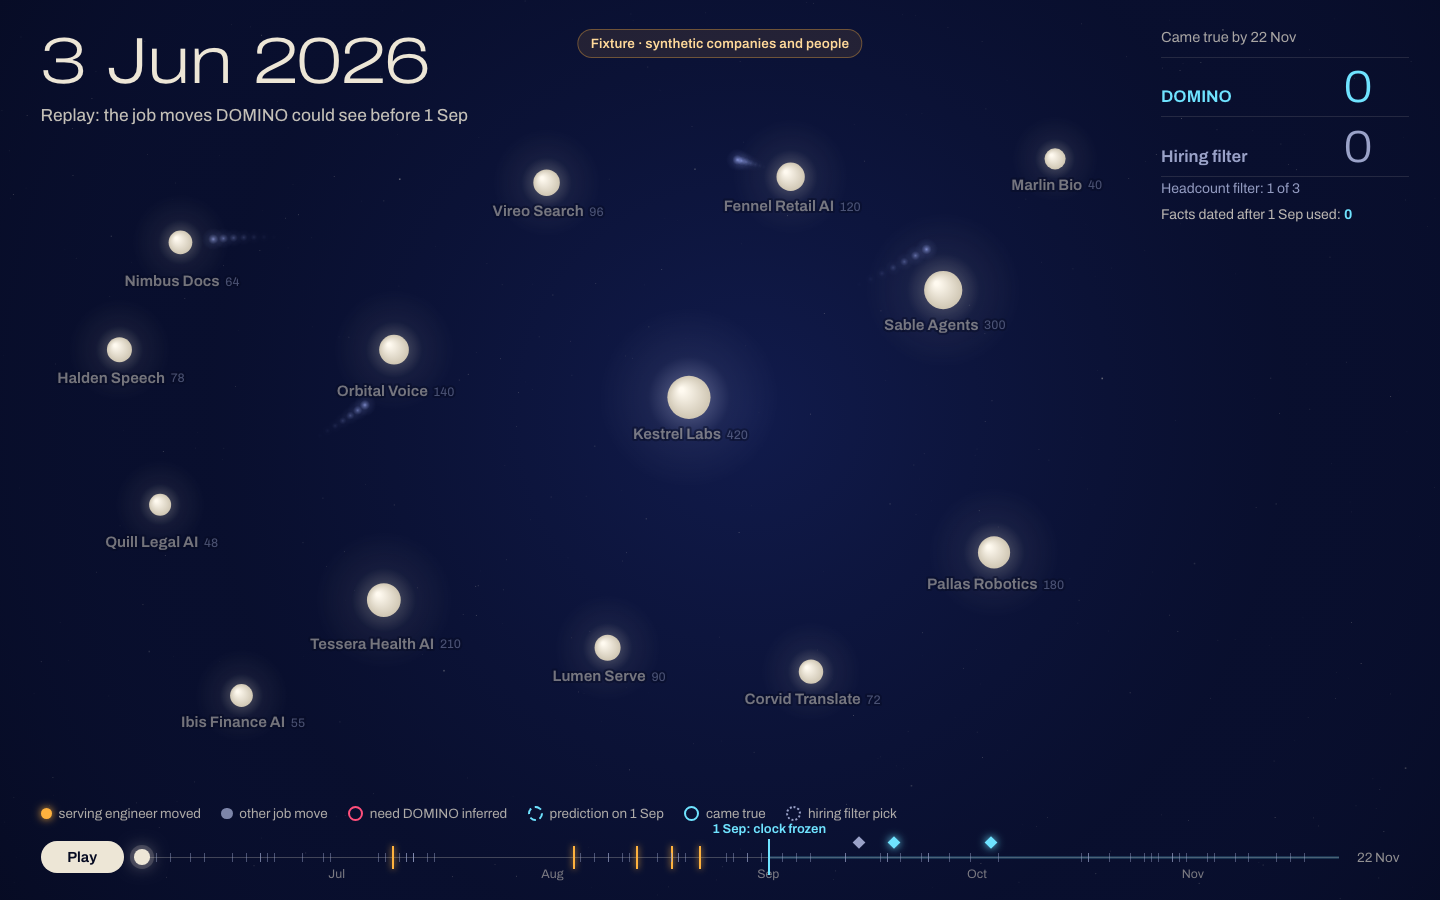
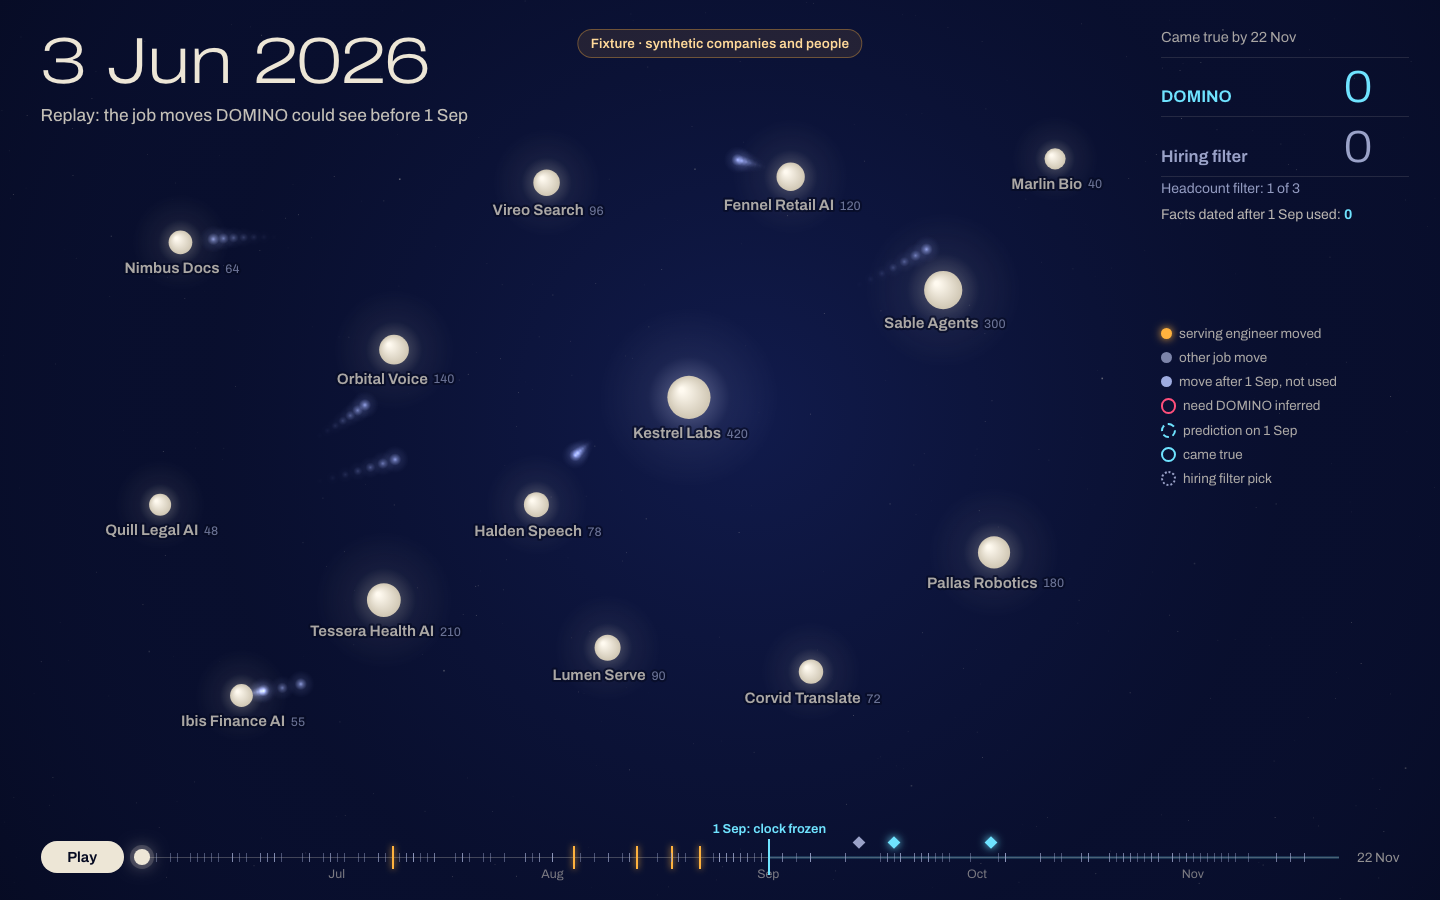
Talent flow: compact slot layout, readable in-flight sentences, outward-bowing flows

diff --git a/web/src/centrepiece/flow/render.ts b/web/src/centrepiece/flow/render.ts
@@ -17,7 +17,7 @@ export const FONT = "'Archivo Flow', 'Archivo', system-ui, sans-serif";
 const FLIGHT_DAYS = 13;
 
 export interface View {
-  w: number; h: number; dpr: number; k: number;
+  w: number; h: number; dpr: number; k: number; compact: boolean;
   rect: { x: number; y: number; w: number; h: number };
   filterView: boolean; hoverId: string | null; selId: string | null; reduced: boolean;
   slots: { x: number; y: number }[];         // landing points (left-middle) of letter sentences, CSS px in the canvas frame
@@ -88,7 +88,7 @@ function background(w: number, h: number, dpr: number): HTMLCanvasElement {
 }
 
 // quadratic curve between two points, always bowing the same way so flows swirl rather than cross
-function ctrl(ax: number, ay: number, bx: number, by: number, bend = 0.22): [number, number] {
+function ctrl(ax: number, ay: number, bx: number, by: number, bend = -0.22): [number, number] {
   const dx = bx - ax, dy = by - ay;
   return [(ax + bx) / 2 - dy * bend, (ay + by) / 2 + dx * bend];
 }
@@ -133,14 +133,14 @@ function text(g: CanvasRenderingContext2D, str: string, x: number, y: number, fo
   g.fillText(str, x, y);
 }
 
-function pill(g: CanvasRenderingContext2D, str: string, x: number, y: number, k: number, color: string, alpha: number, sub?: string, leftAnchor = false) {
+function pill(g: CanvasRenderingContext2D, str: string, x: number, y: number, k: number, color: string, alpha: number, sub?: string, anchor: 'center' | 'left' | 'right' = 'center') {
   g.font = `600 ${12.5 * k}px ${FONT}`;
   const w1 = g.measureText(str).width;
   let w2 = 0;
   if (sub) { g.font = `500 ${12.5 * k}px ${FONT}`; w2 = g.measureText(sub).width + 8 * k; }
   const pw = w1 + w2 + 18 * k, ph = 24 * k;
   if (alpha <= 0.01) return;
-  if (leftAnchor) x += pw / 2;
+  if (anchor === 'left') x += pw / 2; else if (anchor === 'right') x -= pw / 2;
   g.globalAlpha = alpha;
   g.fillStyle = 'rgba(8,14,40,0.92)';
   g.strokeStyle = rgba(color, 0.7);
@@ -205,7 +205,7 @@ export function draw(g: CanvasRenderingContext2D, m: FlowModel, s: number, v: Vi
     const a = clamp((s - l.sAppear) / 0.8);
     if (a <= 0) continue;
     const A = N(l.from), B = N(l.to);
-    const [cx, cy] = ctrl(A.x, A.y, B.x, B.y, -0.12);
+    const [cx, cy] = ctrl(A.x, A.y, B.x, B.y, 0.12);
     const col = l.mechanism === 'DISPLACEMENT' ? C.wound : C.slate;
     g.strokeStyle = rgba(col, 0.5 * a * Math.min(dimOf(l.from), dimOf(l.to)) + 0.05);
     g.lineWidth = 1.4 * k;
@@ -239,8 +239,10 @@ export function draw(g: CanvasRenderingContext2D, m: FlowModel, s: number, v: Vi
         const [mx, my] = pts[24];
         g.globalCompositeOperation = 'source-over';
         g.globalAlpha = 0.9 * dim;
-        text(g, `${arrived} serving moves`, mx + 10 * k, my - 8 * k, `650 ${12 * k}px ${FONT}`, rgba(C.ember, 0.95), 'left');
-        text(g, `the rule needs ${RIVER_MIN} to call a drain`, mx + 10 * k, my + 8 * k, `450 ${11.5 * k}px ${FONT}`, rgba(C.slate, 0.95), 'left');
+        const side = mx < cx ? -1 : 1;
+        const al: CanvasTextAlign = side < 0 ? 'right' : 'left';
+        text(g, `${arrived} serving moves`, mx + side * 12 * k, my - 8 * k, `650 ${12 * k}px ${FONT}`, rgba(C.ember, 0.95), al);
+        text(g, `the rule needs ${RIVER_MIN} to call a drain`, mx + side * 12 * k, my + 8 * k, `450 ${11.5 * k}px ${FONT}`, rgba(C.slate, 0.95), al);
         g.globalAlpha = 1;
         g.globalCompositeOperation = 'lighter';
       }
@@ -337,7 +339,7 @@ export function draw(g: CanvasRenderingContext2D, m: FlowModel, s: number, v: Vi
     g.globalAlpha = 1;
 
     g.globalCompositeOperation = 'source-over';
-    g.globalAlpha = 0.35 + 0.65 * dim;
+    g.globalAlpha = (0.35 + 0.65 * dim) * (focus && c.id !== focus.id ? 1 - ez * 0.95 : 1);
     const cg = g.createRadialGradient(n.x - R * 0.35, n.y - R * 0.35, R * 0.1, n.x, n.y, R);
     cg.addColorStop(0, '#fffaf0');
     cg.addColorStop(1, cracked ? '#e9b9c2' : '#cfc6b3');
@@ -390,9 +392,9 @@ export function draw(g: CanvasRenderingContext2D, m: FlowModel, s: number, v: Vi
     g.font = `650 ${fs}px ${FONT}`;
     const nw = g.measureText(c.name).width;
     g.font = `450 ${fs * 0.82}px ${FONT}`;
-    const hw = g.measureText(` ${c.headcount}`).width;
+    const hw = v.compact ? 0 : g.measureText(` ${c.headcount}`).width;
     text(g, c.name, n.x - hw / 2, ly, `650 ${fs}px ${FONT}`, rgba(C.bone, 0.95));
-    text(g, `${c.headcount}`, n.x + nw / 2 - hw / 2 + 5 * k, ly + 0.5, `450 ${fs * 0.82}px ${FONT}`, rgba(C.slate, 0.9), 'left');
+    if (!v.compact) text(g, `${c.headcount}`, n.x + nw / 2 - hw / 2 + 5 * k, ly + 0.5, `450 ${fs * 0.82}px ${FONT}`, rgba(C.slate, 0.9), 'left');
     let line = ly + fs * 1.3;
     if (need) {
       const bt = clamp((s - need.sBloom) / 0.5);
@@ -400,9 +402,11 @@ export function draw(g: CanvasRenderingContext2D, m: FlowModel, s: number, v: Vi
         g.globalAlpha = la * bt;
         text(g, need.weak ? `${need.need}?` : need.need, n.x, line, `700 ${fs * 0.9}px ${FONT}`, need.weak ? rgba(C.wound, 0.6) : C.wound);
         line += fs * 1.2;
+        if (!v.compact || (focus && c.id === focus.id && ez > 0.5)) {
         const ev = need.weak ? `${need.dated} dated row, needs 2 to act` : `${need.dated} dated rows${need.confidence !== null ? `, ${Math.round(need.confidence * 100)}% confidence` : ''}`;
         text(g, ev, n.x, line, `450 ${fs * 0.8}px ${FONT}`, rgba(C.slate, 0.95));
         line += fs * 1.15;
+        }
       }
     }
     if (v.filterView && m.filterIds.has(c.id)) {
@@ -513,10 +517,11 @@ export function draw(g: CanvasRenderingContext2D, m: FlowModel, s: number, v: Vi
       const a = clamp((s - p.sLand) / 0.35) * (focus && p.companyId !== focus.id ? dim : 0.4 + 0.6 * dim);
       const label = p.outcomeDay !== null ? fmtDay(p.outcomeDay) : '';
       const what = p.outcome.replace(/\s\d{1,2} [A-Z][a-z]{2}$/, '');
-      pill(g, label, n.x + R * 0.55, n.y - R * 0.85 - 6 * k, k, p.by === 'domino' ? C.tide : C.slate, a, what, true);
+      const isFocus = focus && p.companyId === focus.id && ez > 0.5;
+      pill(g, label, n.x + (isFocus ? -R * 0.55 : R * 0.55), n.y - R * 0.85 - 6 * k, k, p.by === 'domino' ? C.tide : C.slate, a, what, isFocus ? 'right' : 'left');
     } else if (p.sLand === null && s >= m.sEnd && m.mode === 'replay' && !pillDone.has(p.companyId)) {
       pillDone.add(p.companyId);
-      pill(g, 'no dated sign yet', n.x + R * 0.55, n.y - R * 0.85 - 6 * k, k, C.slate, clamp((s - m.sEnd) / 0.5) * 0.85 * dim, undefined, true);
+      pill(g, 'no dated sign yet', n.x + R * 0.55, n.y - R * 0.85 - 6 * k, k, C.slate, clamp((s - m.sEnd) / 0.5) * 0.85 * dim * (1 - ez), undefined, 'left');
     }
   }
 

diff --git a/web/src/centrepiece/flow/TalentFlow.tsx b/web/src/centrepiece/flow/TalentFlow.tsx
@@ -64,13 +64,14 @@ export function TalentFlow(props: CentrepieceProps & TalentFlowExtra): JSX.Eleme
   const [, force] = useState(0);
 
   const k = clamp(Math.min(width / 1280, height / 800), 0.78, 1.4);
-  const scoreW = model.score ? 236 * k : 0;
+  const compact = width < 1000 || height < 640;
+  const scoreW = model.score ? (compact ? 200 : 236) * k : 0;
   const letterW = Math.min(560 * k, width * 0.5);
   const letterLeft = width - letterW - 28 * k;
   const rect = useMemo(() => ({
-    x: 70 * k, y: 120 * k,
-    w: width - 140 * k - scoreW, h: height - 120 * k - 150 * k,
-  }), [k, width, height, scoreW]);
+    x: (compact ? 56 : 70) * k, y: (compact ? 100 : 128) * k,
+    w: width - (compact ? 100 : 140) * k - scoreW, h: height - (compact ? 100 : 128) * k - (compact ? 92 : 132) * k,
+  }), [k, width, height, scoreW, compact]);
 
   useEffect(() => {
     if (reducedMotion) { st.current.s = model.total; st.current.playing = false; }
@@ -111,7 +112,7 @@ export function TalentFlow(props: CentrepieceProps & TalentFlowExtra): JSX.Eleme
       const s = S.s;
       const dpr = Math.min(2, window.devicePixelRatio || 1);
       if (cv.width !== Math.round(width * dpr) || cv.height !== Math.round(height * dpr)) { cv.width = Math.round(width * dpr); cv.height = Math.round(height * dpr); }
-      const view: View = { w: width, h: height, dpr, k, rect, filterView: p.hiringFilterView, hoverId: S.hover, selId: p.selection?.kind === 'node' ? p.selection.id : null, reduced: p.reducedMotion, slots: S.slots, letterLeft };
+      const view: View = { w: width, h: height, dpr, k, rect, compact, filterView: p.hiringFilterView, hoverId: S.hover, selId: p.selection?.kind === 'node' ? p.selection.id : null, reduced: p.reducedMotion, slots: S.slots, letterLeft };
       S.frame = draw(g, model, s, view);
 
       // HUD
@@ -158,12 +159,13 @@ export function TalentFlow(props: CentrepieceProps & TalentFlowExtra): JSX.Eleme
               const u = 1 - e;
               const x = u * u * b.x + 2 * u * e * cx + e * e * slot.x;
               const y = u * u * b.y + 2 * u * e * cy + e * e * slot.y;
-              tr = `translate(${(x - slot.x).toFixed(1)}px, ${(y - slot.y).toFixed(1)}px) scale(${(0.3 + 0.7 * e).toFixed(3)})`;
+              tr = `translate(${(x - slot.x).toFixed(1)}px, ${(y - slot.y).toFixed(1)}px) scale(${(0.55 + 0.45 * e).toFixed(3)})`;
             }
           }
           el.style.transform = tr;
           el.style.opacity = String(s < sen.sStart ? 0 : sen.status === 'cited' ? clamp(ft * 2.5) : clamp((s - sen.sStart) / 0.35));
           el.style.setProperty('--land', String(clamp((s - sen.sLand) / 0.4)));
+          el.style.setProperty('--fly', String(sen.status === 'cited' && s >= sen.sStart ? 1 - clamp((s - sen.sLand + 0.15) / 0.5) : 0));
           el.style.setProperty('--strike', String(sen.status === 'removed' ? clamp((s - sen.sStart - 0.35) / 0.45) : 0));
         });
         if (tailRef.current) tailRef.current.style.opacity = String(clamp((s - (L.sentences.at(-1)?.sLand ?? model.sLetter) - 0.3) / 0.6));
@@ -172,7 +174,7 @@ export function TalentFlow(props: CentrepieceProps & TalentFlowExtra): JSX.Eleme
     };
     raf = requestAnimationFrame(tick);
     return () => cancelAnimationFrame(raf);
-  }, [model, width, height, k, rect, letterLeft, focusName]);
+  }, [model, width, height, k, rect, letterLeft, focusName, compact]);
 
   function bump(el: HTMLElement) {
     el.classList.remove('tf-bump');
@@ -247,7 +249,7 @@ export function TalentFlow(props: CentrepieceProps & TalentFlowExtra): JSX.Eleme
   const fixture = model.fixture || snapshot.evidence.some((e) => e.mode === 'fixture');
 
   return (
-    <div ref={rootRef} className="tf-root" tabIndex={0} aria-label="Talent-flow replay" style={{ width, height, ['--k' as string]: k, ['--letter-w' as string]: `${letterW}px` }}>
+    <div ref={rootRef} className={compact ? 'tf-root tf-compact' : 'tf-root'} tabIndex={0} aria-label="Talent-flow replay" style={{ width, height, ['--k' as string]: k, ['--letter-w' as string]: `${letterW}px` }}>
       <canvas ref={canvasRef} style={{ width, height }} onPointerMove={onMove} onClick={onClick} />
 
       <header className="tf-clock">

diff --git a/web/src/centrepiece/flow/flow.css b/web/src/centrepiece/flow/flow.css
@@ -136,7 +136,6 @@
 /* ---- the letter ---- */
 .tf-letter {
   position: absolute; right: calc(28 * var(--u)); top: calc(110 * var(--u)); width: var(--letter-w);
-  max-height: calc(100% - 150 * var(--u)); overflow: hidden;
   background: linear-gradient(180deg, rgba(14, 22, 60, 0.97), rgba(8, 13, 38, 0.98));
   border: 1px solid rgba(237, 230, 214, 0.14); border-radius: calc(16 * var(--u));
   padding: calc(22 * var(--u)) calc(26 * var(--u)) calc(18 * var(--u));
@@ -149,7 +148,7 @@
 .tf-l-subject { margin-top: calc(10 * var(--u)); font-family: 'Newsreader Flow', Georgia, serif; font-style: italic; font-size: calc(23 * var(--u)); font-weight: 450; line-height: 1.2; }
 .tf-l-body { margin-top: calc(14 * var(--u)); display: flex; flex-direction: column; gap: calc(11 * var(--u)); }
 .tf-sent { transform-origin: 0 50%; will-change: transform, opacity; opacity: 0; }
-.tf-sent-text { font-family: 'Newsreader Flow', Georgia, serif; font-size: calc(18.5 * var(--u)); line-height: 1.42; font-weight: 400; color: var(--bone); }
+.tf-sent-text { text-shadow: 0 0 calc(var(--fly, 0) * 18px) rgba(111, 227, 255, calc(var(--fly, 0) * 0.9)); font-family: 'Newsreader Flow', Georgia, serif; font-size: calc(18.5 * var(--u)); line-height: 1.42; font-weight: 400; color: var(--bone); }
 .tf-mark { font-family: 'Archivo Flow', sans-serif; font-size: 0.6em; font-weight: 700; color: var(--tide); margin-left: 1px; }
 .tf-chips { display: flex; flex-wrap: wrap; gap: 6px; margin-top: calc(5 * var(--u)); opacity: var(--land, 0); }
 .tf-chip {
@@ -176,3 +175,19 @@
 }
 .lg-frost { background: #b9c7ff; opacity: .85; }
 .tf-root[data-phase='letter'] .tf-score, .tf-root[data-phase='done'] .tf-score { visibility: hidden; }
+
+/* ---- compact: the app's centre slot (about 780 x 540) ---- */
+.tf-compact .tf-clock { left: calc(24 * var(--u)); top: calc(18 * var(--u)); }
+.tf-compact .tf-date { font-size: calc(42 * var(--u)); }
+.tf-compact .tf-caption { font-size: calc(13.5 * var(--u)); margin-top: calc(6 * var(--u)); max-width: calc(470 * var(--u)); }
+.tf-compact .tf-badge, .tf-compact[data-phase] .tf-badge { left: calc(24 * var(--u)); right: auto; top: auto; bottom: calc(58 * var(--u)); transform: none; font-size: calc(11 * var(--u)); padding: 3px 9px; }
+.tf-compact .tf-legend { display: none; }
+.tf-compact .tf-score { right: calc(20 * var(--u)); top: calc(18 * var(--u)); width: calc(190 * var(--u)); }
+.tf-compact .tf-num { font-size: calc(32 * var(--u)); }
+.tf-compact .tf-timeline { left: calc(24 * var(--u)); right: calc(24 * var(--u)); bottom: calc(10 * var(--u)); }
+.tf-compact .tf-letter { top: calc(92 * var(--u)); right: calc(16 * var(--u)); padding: calc(14 * var(--u)) calc(16 * var(--u)); }
+.tf-compact .tf-sent-text { font-size: calc(15.5 * var(--u)); line-height: 1.35; }
+.tf-compact .tf-l-subject { font-size: calc(19 * var(--u)); }
+.tf-compact .tf-l-body { gap: calc(7 * var(--u)); }
+.tf-compact .tf-note-quiet { display: none; }
+.tf-compact .tf-chip span { display: none; }

diff --git a/web/src/centrepiece/flow/fixture.ts b/web/src/centrepiece/flow/fixture.ts
@@ -49,7 +49,7 @@ export const FIXTURE_LAYOUT: Record<string, { x: number; y: number }> = {
   [CO.ibis]: { x: 0.16, y: 0.94 },
   [CO.marlin]: { x: 0.96, y: 0.04 },
   [CO.fennel]: { x: 0.7, y: 0.07 },
-  [CO.halden]: { x: 0.04, y: 0.36 },
+  [CO.halden]: { x: 0.45, y: 0.62 },
 };
 
 const name = (id: string) => COMPANIES.find((c) => c[0] === id)?.[1] ?? id;
